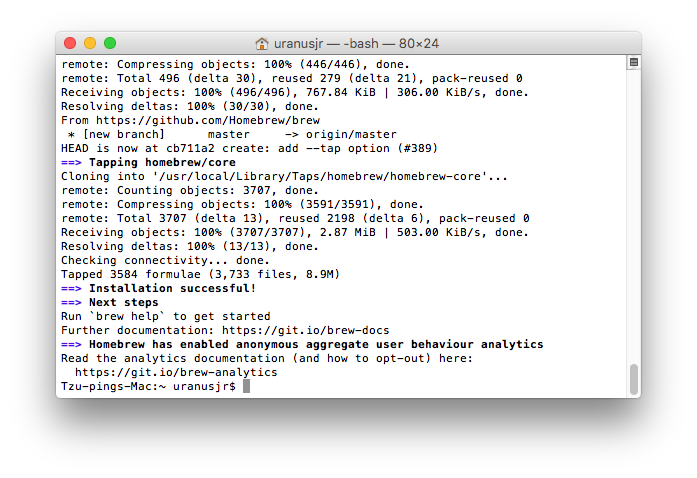
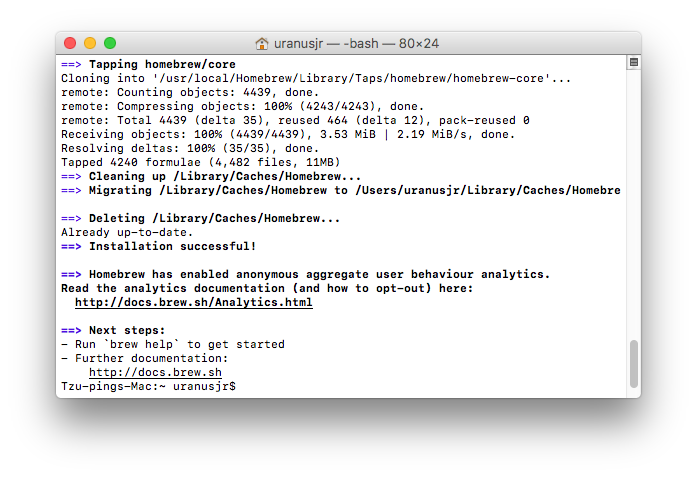
Update Homebrew installation guide

Changed region(s): [[0.0904, 0.1172, 0.9039, 0.8201], [0.9039, 0.7029, 0.934, 0.7615], [0.9039, 0.7908, 0.934, 0.8201]]

diff --git a/pages/static/pages/posts/tutorials/installation.textbundle/text.md b/pages/static/pages/posts/tutorials/installation.textbundle/text.md
@@ -137,30 +137,21 @@ git config --global user.email "你的 email"
 
 ![macOS 詢問密碼](assets/osx/password-prompt.png)
 
-接著應該會跳出一個這樣的視窗（如果沒有也沒關係，請直接跳到後面「已安裝此軟體。」畫面之後的步驟）。請按「安裝」：
+接著系統會開始下載、安裝必要元件，應該會花一些時間，請耐心等待。
 
-![macOS 安裝命令列開發者工具](assets/osx/command-line-developer-tools-start.png)
-
-在跳出的「命令列工具許可協議」視窗選擇同意，就會開始安裝。完成之後如果跳出這個畫面（如果沒有就跳過這步）：
-
-![macOS 命令列開發者工具安裝完成畫面](assets/osx/command-line-developer-tools-done.png)
-
-按下完成就可以關閉視窗。
-
-回到之前的終端機視窗。如果終端機畫面停在「Press any key when the installation has completed.」這行字，就再按一次 Return：
-
-![macOS Homebrew 等候命令列開發者工具安裝畫面](assets/osx/homebrew-installation-waiting.png)
-
-接著繼續等待，直到出現
+直到出現下面的文字：
 
 ```
 ==> Installation successful!
-==> Next steps
-Run `brew help` to get started
-Further documentation: https://git.io/brew-docs
-==> Homebrew has enabled anonymous aggregate user behaviour analytics
+
+==> Homebrew has enabled anonymous aggregate user behaviour analytics.
 Read the analytics documentation (and how to opt-out) here:
-  https://git.io/brew-analytics
+  http://docs.brew.sh/Analytics.html
+
+==> Next steps:
+- Run `brew help` to get started
+- Further documentation:
+    http://docs.brew.sh
 ```
 
 便代表安裝完成。現在你的終端機視窗應該類似下面這樣，最後一行是以 `$` 結尾：
